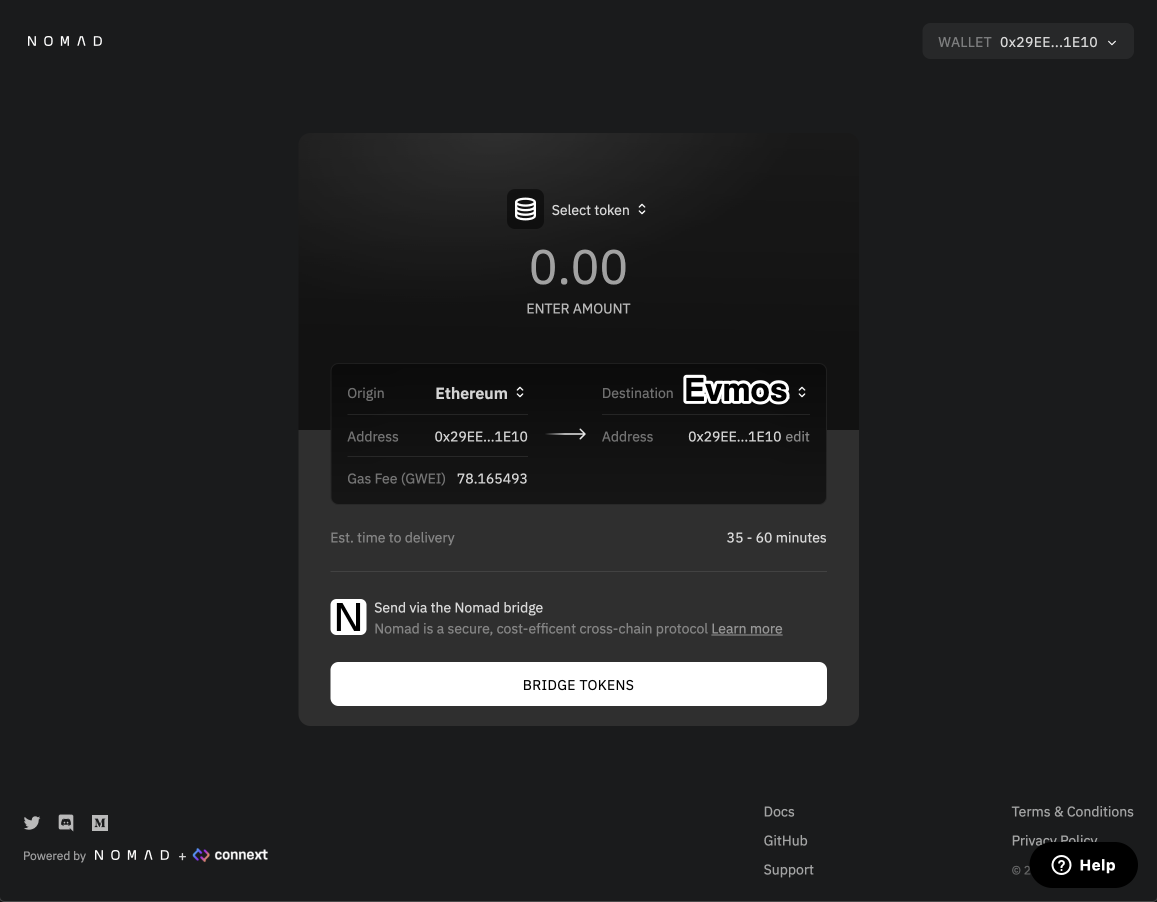
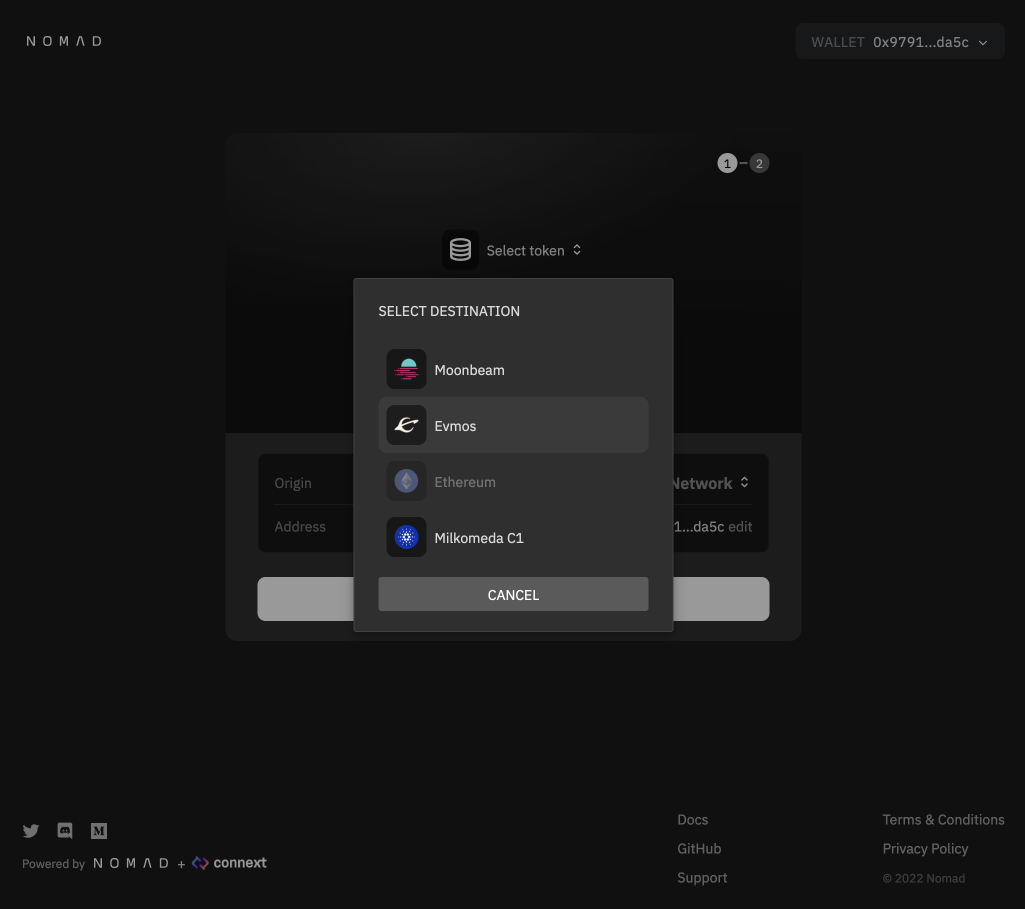
refactor: move evmos images to evmos partner guide

diff --git a/docs/partners/nomad-bridging-to-evmos.md b/docs/partners/nomad-bridging-to-evmos.md
@@ -1,15 +1,9 @@
 ---
-title: Bridge from Ethereum to Evmos
+title: Nomad Bridge GUI
 lang: en-US
 ---
 
-# Bridging To Evmos
-
-Bridging assets from Ethereum to Evmos using the Nomad GUI should be intuitive and easy. In this tutorial, we will walk through the steps required to bridge your assets.
-
-Please find our production bridge GUI at [app.nomad.xyz](https://app.nomad.xyz/).
-
-If you would like to test our bridge using testnet funds before using real funds, please visit our development GUI at [development.app.nomad.xyz](https://development.app.nomad.xyz/).
+# Nomad Bridge GUI
 
 ## Nomad vs Connext, which should I use?
 
@@ -17,22 +11,26 @@ There are two options available to send funds through the GUI, Nomad and Connext
 
 Nomad is a secure gas efficient cross-chain protocol that allows users to bridge funds between networks. This takes, on average, 35-60 minutes. There are no fees associated with Nomad, just pay gas! Connext provides liquidity pools for Nomad assets, meaning users can receive funds on the destination chain much faster (less than 10 minutes) for an additional fee. Nomad is advised for large transfers.
 
-Connext is not available for every asset and may not be available for larger sums. If it is available, we provide this option by default. If you would like to use Nomad instead, you can temporarily switch by clicking "Use Nomad" or you can toggle off "Enable Connext" in settings.
+Connext is not available for every asset and may not be available for larger sums. We recommend using Nomad if you intend to send large transfers.
 
-![Switch to Nomad](../public/partner-assets/ethereum-to-evmos/use-nomad.png)
-![Enables/Disable Connext](../public/partner-assets/ethereum-to-evmos/toggle-connext.png)
+## Bridging Through Nomad
 
-## Bridge using Nomad
+Bridging assets across chains using Nomad should be intuitive and easy with the Nomad GUI. In this tutorial, we will walk through the steps required to bridge your assets.
 
-Connect to Metamask.
+Please find our production bridge GUI at [app.nomad.xyz](https://app.nomad.xyz/).
+
+If you would like to test our bridge using testnet funds before using real funds, please visit our development GUI at [development.app.nomad.xyz](https://development.app.nomad.xyz/).
+
+<br>
+
+Connect to Metamask:
 
 ![Connect to Metamask](../public/partner-assets/ethereum-to-evmos/connect-metamask.png)
 
 <br>
 
-Select Ethereum as the origin network and Evmos C1 as the destination.
+Select origin and destination networks:
 
-![Select Evmos as Destination](../public/partner-assets/ethereum-to-evmos/select-evmos.png)
 ![Select Origin and Destination Networks](../public/partner-assets/ethereum-to-evmos/select-networks.png)
 
 <br>
@@ -42,19 +40,30 @@ Select Ethereum as the origin network and Evmos C1 as the destination.
 Sending assets to an address you do not control can result in a permanent loss of funds!
 :::
 
-![Change Destination](../public/partner-assets/ethereum-to-evmos/edit-destination-address.png)
-![Paste Destination](../public/partner-assets/ethereum-to-evmos/paste-destination-address.png)
+![Change Destination](../public/partner-assets/ethereum-to-evmos/change-dest-1.png)
+![Paste Destination](../public/partner-assets/ethereum-to-evmos/change-dest-2.png)
 
 <br>
 
-Select the asset you want to send using the asset dropdown menu and the amount you want to send using the input prompt.
+Select the asset you want to send using the asset dropdown menu and the amount you want to send using the input prompt:
 
-![Select an Asset](../public/partner-assets/ethereum-to-evmos/select-asset.png)
-![Enter Amount](../public/partner-assets/ethereum-to-evmos/bridge-with-nomad.png)
+![Select an Asset and Amount](../public/partner-assets/ethereum-to-evmos/select-token.png)
 
 <br>
 
-Click `Bridge Tokens` and approve the transaction in Metamask.
+Click `Next`:
+
+![Select an Asset and Amount](../public/partner-assets/ethereum-to-evmos/input-data.png)
+
+<br>
+
+Review your transaction details and associated fees. Check if Connext liquidity is available for your transfer for a faster bridging experience! If proceeding with Connext, continue reading [here](#fast-transfers-with-connext).
+
+![Approve Bridge Transaction](../public/partner-assets/ethereum-to-evmos/review.png)
+
+<br>
+
+Click `Bridge Tokens` and approve the transaction in Metamask:
 
 ![Approve Bridge Transaction](../public/partner-assets/ethereum-to-evmos/sending.png)
 
@@ -63,16 +72,14 @@ Click `Bridge Tokens` and approve the transaction in Metamask.
 After approving the transaction, you will be taken to the transaction details page. Here, you will see the estimated time remaining for your transfer to complete. Please save your transaction hash for convenience. If you lose it, you can visit your wallet address on the block explorer of the origin network and find the transaction again.
 
 ::: info
-Processing fees are subsidized for Evmos, so your funds will be deposited directly to your address without any further action!
-
-If you bridge **back** to Ethereum, you will need to wait 30-65 minutes and then revisit the Transaction page to complete your transfer and receive your funds on Ethereum.
+You must return to the Transaction Page after bridging has concluded to pay for gas and complete your transfer. Nomad may cover the processing and gas fees for some chains.
 :::
 
-![See Transaction Details](../public/partner-assets/ethereum-to-evmos/pending.png)
+![See Transaction Details](../public/partner-assets/ethereum-to-evmos/transfer-pending.png)
 
 <br>
 
-You can expand the time estimate tab to track your transaction status by clicking the down arrow in the blue box.
+You can expand the time estimate tab to track your transaction status by clicking the down arrow in the blue box:
 
 ![See Expanded Transaction Details](../public/partner-assets/ethereum-to-evmos/expand-status.png)
 
@@ -84,33 +91,29 @@ You can expand the time estimate tab to track your transaction status by clickin
 
 <br>
 
-Once your transfer has completed, you should see the below display and your funds will be in the account of your destination address.
+Once your transfer has completed, you should see the below display and your funds will be in the account of your destination address. If your transfer is taking longer than expected, please reach out to us on [Discord](https://discord.gg/RurtmJApqm) in the #support channel:
 
 ![Finished](../public/partner-assets/ethereum-to-evmos/transfer-complete.png)
 
 <br>
 
-You may need to import the token address into your wallet in order to see your funds. The addresses of Nomad assets on Evmos can be found [here](https://docs.nomad.xyz/bridge/domains.html#evmos).
+## Completing a Transfer (Ethereum Destination Only)
 
-If need help with your transfer or have any questions, please reach out to the Nomad team on [Discord](https://discord.gg/RurtmJApqm) in the #support channel.
+If you are sending to Ethereum, there is one additional processing step due to the high cost of processing transactions on Ethereum. You will see the following display and should click "Complete Transfer" and complete the Metamask transaction. After this, your funds should be at your destination on Ethereum!
+
+![Self Process](../public/partner-assets/ethereum-to-evmos/complete-transfer.png)
+
+<br>
 
 ## Fast Transfers with Connext
 
-Fill out transfer details: connect wallet, select token, enter amount, select origin/destination networks and (optional) set destination address.
+Fill out data for your transfer and click "Next." Select "Connext." If there is liquidity available for your transfer, it will calculate associated fees for your transaction. Note that Connext collects gas fees in the asset that is being sent.
 
-Once the input is filled out and valid, the app will check if there is available liquidity via Connext.
+If there is not liquidity available, you can continue by using Nomad.
 
-![Checking availability](../public/partner-assets/ethereum-to-evmos/checking-connext.png)
+![Self Process](../public/partner-assets/ethereum-to-evmos/review-connext.png)
 
-If there is, your screen will look like this. You may proceed with Connext or click "Use Nomad" to switch.
-
-![Connext available](../public/partner-assets/ethereum-to-evmos/connext-available.png)
-
-Click "Preview Send" to see the estimated fees and receive amount. It will take approximately 6-8 seconds for the results to appear.
-
-![Calculating fee](../public/partner-assets/ethereum-to-evmos/calculating-fees.png)
-
-Click `Send Tokens` and approve the transaction in Metamask!
+Click `Send` and approve the transaction in Metamask!
 
 In a few minutes, you will see your transfer appear in a table below. Click "Claim" to submit a transaction to receive your funds on the destination chain.
 
